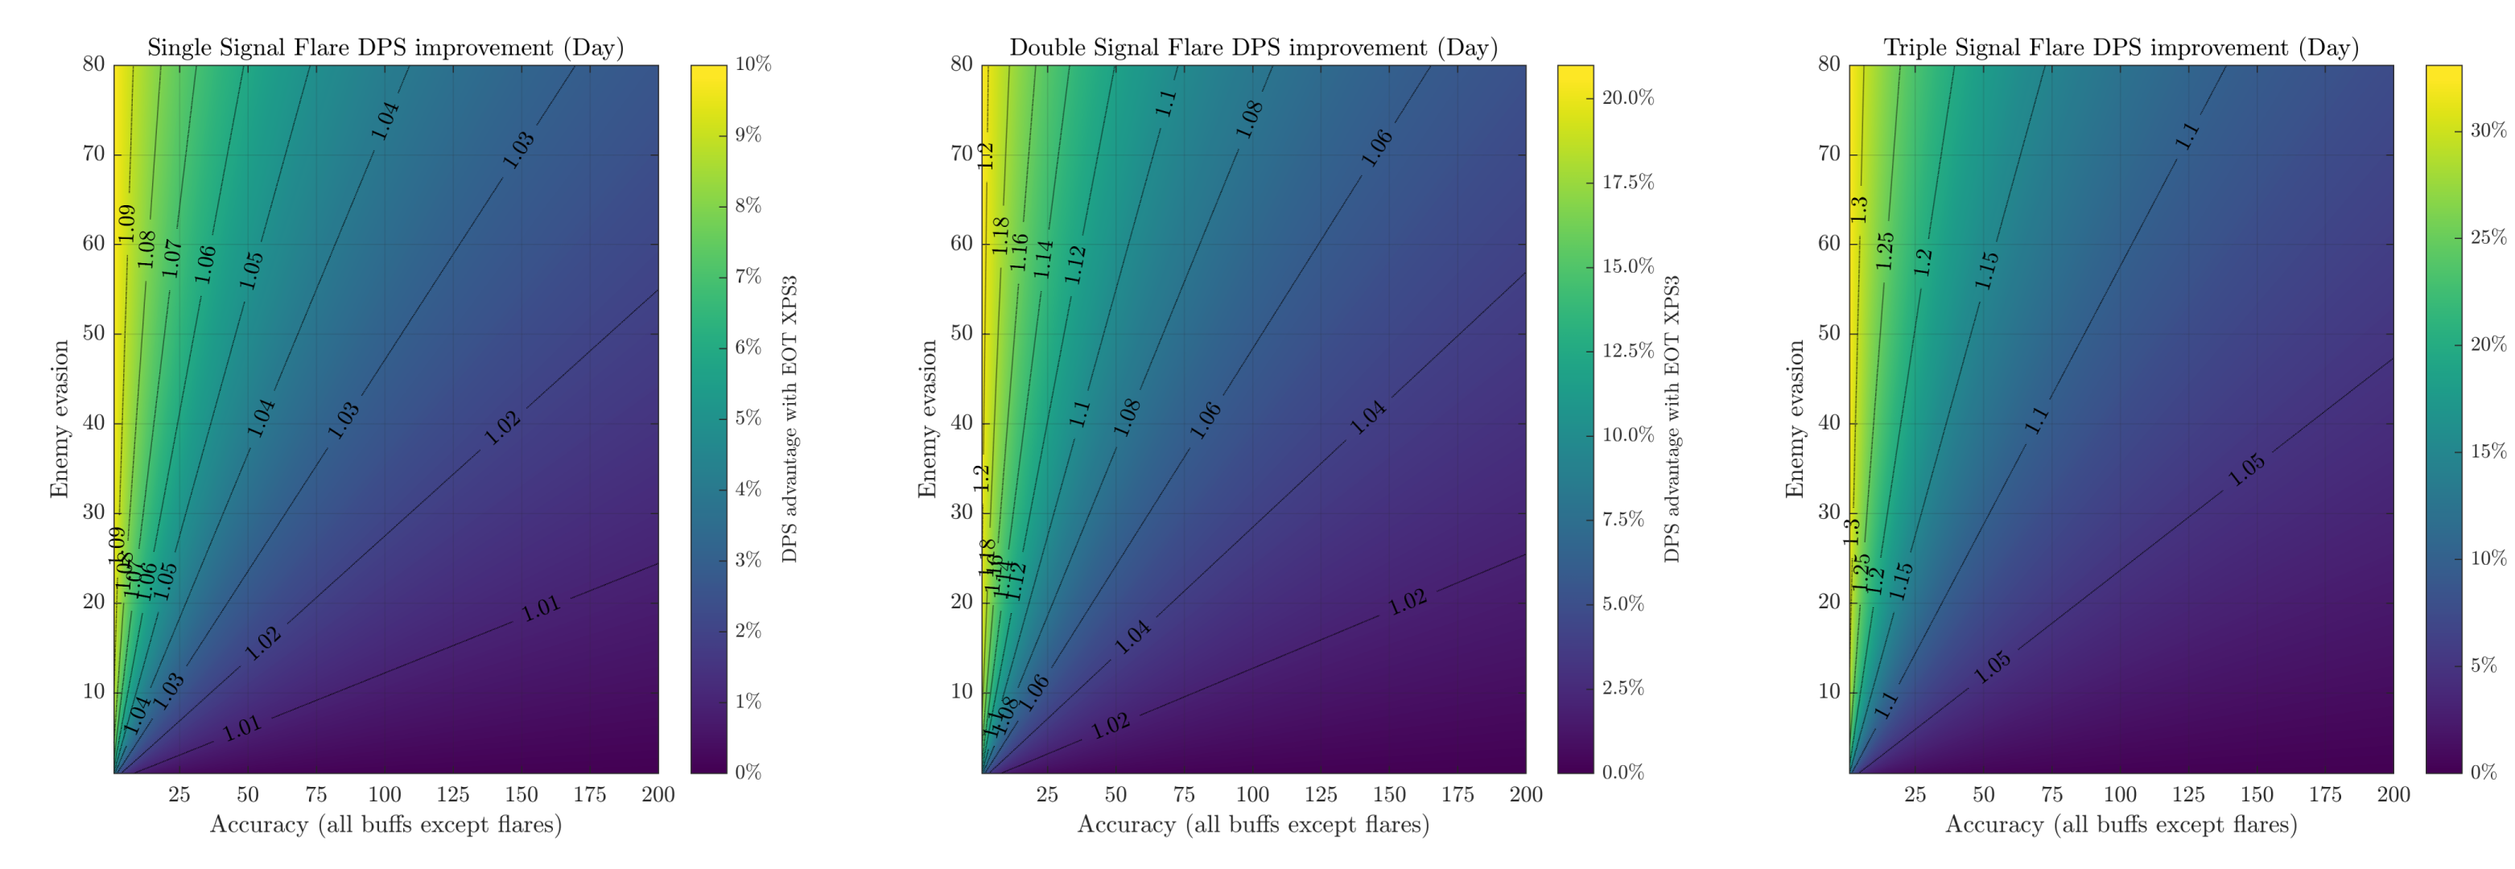
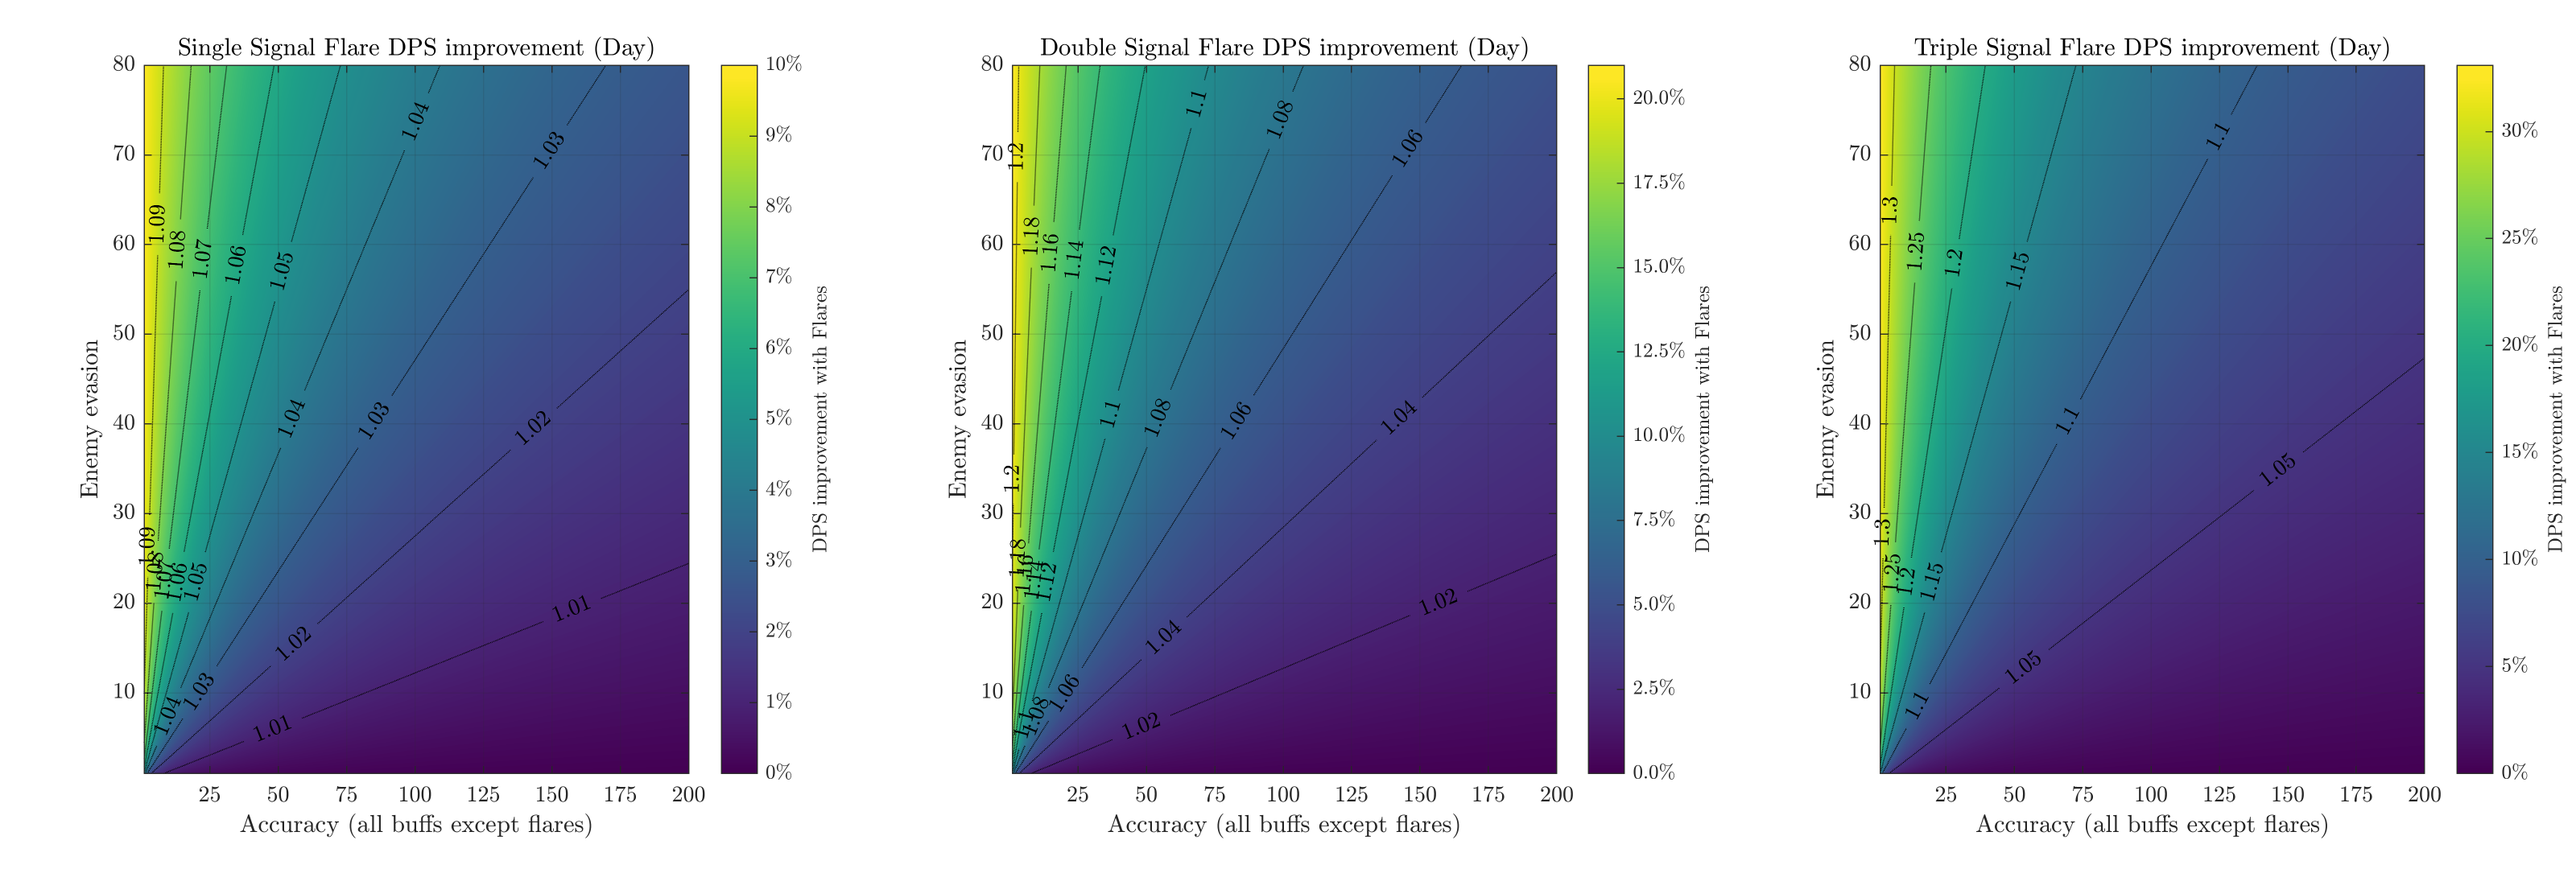
newquip: fixed flare colorbar labels. myths: px4 dps.

diff --git a/pages/myths.html b/pages/myths.html
@@ -52,7 +52,7 @@ gtag('config', 'G-805N997DPC');
 
 
 
-<center><em>By BigStupidJellyfish | Last updated 2021-December-02</em></center>
+<center><em>By BigStupidJellyfish | Last updated 2021-December-30</em></center>
 
 <p>Girls' Frontline is not exactly the most transparent game out there with regards to its mechanics.
 There are few good ways to get information in-game, and players will often have to turn to guides and resources made by other players to figure out what's going on.</p>
@@ -79,6 +79,7 @@ There may be <em>some</em> opinion here and there, but I will try to keep this a
 	<li><a href="#twentyfive">#2 Chips and fairy crit damage</a></li>
 	<li><a href="#hanyangacc">Type88 suffers from low accuracy</a></li>
 	<li><a href="#sl8acr">SL8, ACR, and team comp sacrifices</a></li>
+	<li><a href="#px4-sl">DPS loss with Px4 Storm?</a></li>
 	<!-- <li><a href="#kouji">Kouji's active skill</a></li> -->
 </ul>
 
@@ -705,6 +706,20 @@ You'd want at least some FP buffs, but that's true for any team.</p>
 </p>
 <p>
 	Focusing on a specific aspect of a single doll's performance is almost always a completely invalid way of teambuilding.
+</p>
+
+<h2 id="px4-sl">Px4 Storm's skill can be a DPS loss at low SL/low crit rate<sup><small><a href="#px4-sl">&#35;</a></small></sup></h2>
+
+<p><strong>Status:</strong> false.</p>
+
+<p>
+	Suppose you have a doll with a 10% crit rate and 300% crit damage - pretty much the worst possible scenario for Px4 Storm.
+	Their average per-shot damage (with "1" base damage) is (1-0.1)*1+(0.1)*3=1.2.
+	Px4 Storm, at SL1, reduces that crit rate to 7% (-30%) and increases crit damage to 390% (+30%).
+	Now, your average per-shot damage would be (1-0.07)*1+(0.07)*3.9=1.203.
+	A .25% average DPS increase is nothing to write home about, but the point is that outside of abnormal armor situations, Px4 Storm's skill is <em>always</em> a net DPS increase.
+	Px4 Storm's skill is better than that of standard buffers for most reasonable configurations, and her tiles give her a major advantage over SAA/K5/Mk23 in the offside HG role.
+	For more reasonable numbers and further information, <a href="px4">see this writeup</a>.
 </p>
 
 <!-- <h2 id="kouji">Kouji's skill is always bad, as it makes you take more damage<sup><small><a href="#kouji">&#35;</a></small></sup></h2>

diff --git a/pages/px4.html b/pages/px4.html
@@ -49,7 +49,7 @@ gtag('config', 'G-805N997DPC');
 	<h1>Everything you need to know about Px4 Storm</h1>
 </header>
 
-<center><em>By BigStupidJellyfish | 2021-May-28 | Updated 2021-September-30</em></center>
+<center><em>By BigStupidJellyfish | 2021-May-28 | Updated 2021-December-30</em></center>
 
 <h2 id="basics">The Basics<sup><small><a href="#basics">&#35;</a></small></sup></h2>
 
@@ -190,7 +190,10 @@ On  the other hand, due to unusual formation requirements for certain deathstack
 <ul>
 	<li>Her skill only buffs dolls on her tiles, relative to her current position. If you kite her up front and let her skill trigger there, it'll be wasted.</li>
 	<li>HG stats don't matter, so I haven't commented on them. There are approximately zero situations where your HG choice depends on their base stats.</li>
-	<li>It is possible to double-dip on her skill by having a doll standing between two tiles on activation. This usually isn't relevant, and (I believe) is not permitted in GFC speedrun competitions where it would most matter.</li>
+	<li>
+		<del>It is possible to double-dip on her skill by having a doll standing between two tiles on activation. This usually isn't relevant, and (I believe) is not permitted in GFC speedrun competitions where it would most matter.</del>
+		Fixed as of the 2.08 client update. GFC speedruns are dead anyways.
+	</li>
 	<li>
 		Handgun tiles are, in a sense, better than handgun skills.
 		Typical HG tiles give a 30% DPS increase with 100% uptime.
